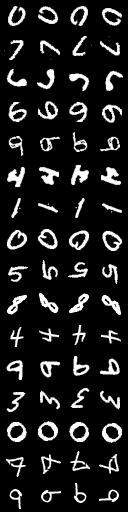
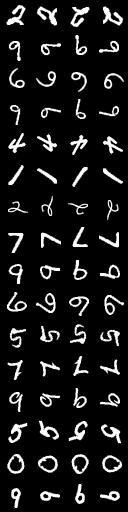
Adding relevant images

diff --git a/elements/convgan4.py b/elements/convgan4.py
@@ -233,7 +233,7 @@ epoch = 100
 learning_rate = 1e-2
 batch_size = 16
 embedding_size = 256
-num_class = 20
+num_class = 10
 frames = 4
 
 gan = DCGAN(batch_size=batch_size, embedding_size=embedding_size, frames=frames, image_shape=[32,32,frames], num_class=num_class)
